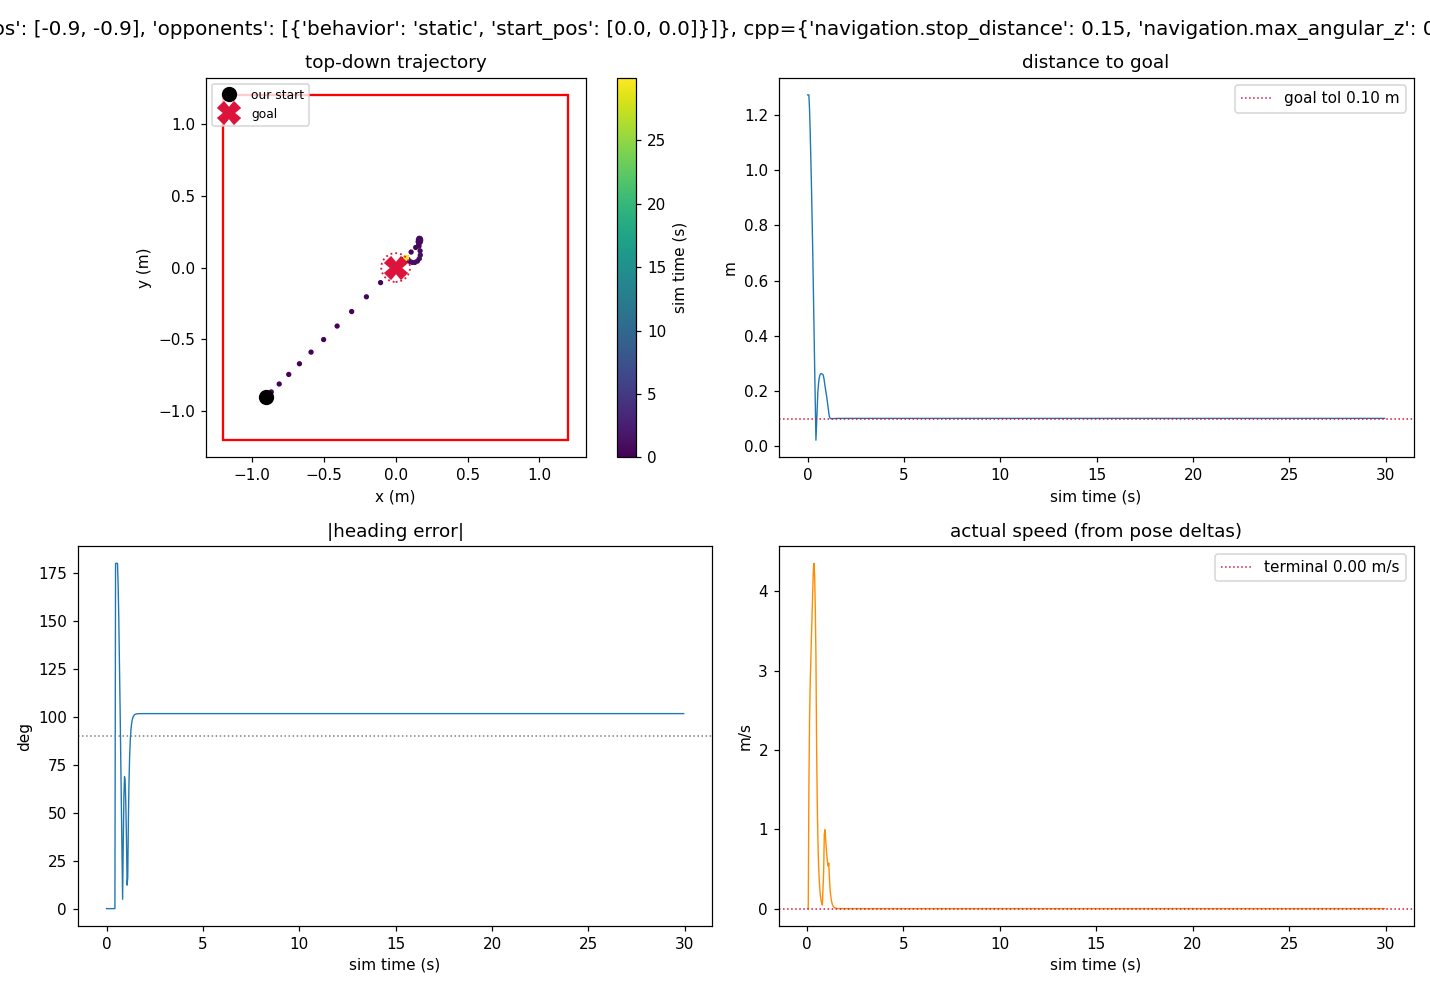
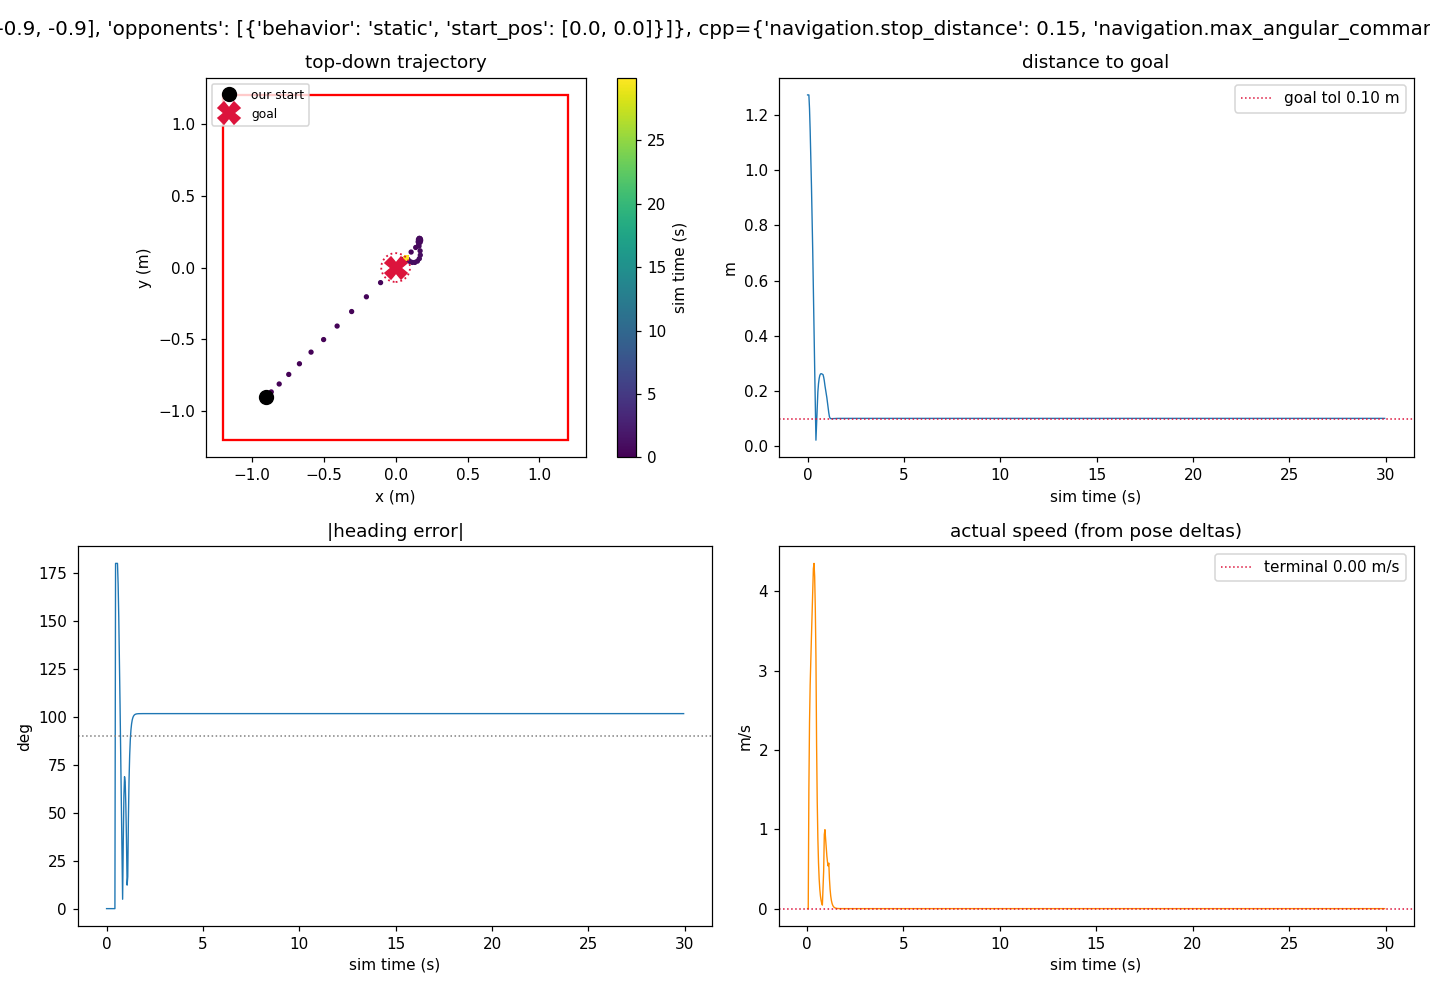
fix parameter name

Changed region(s): [[0.0, 0.0, 1.0, 0.0606]]

diff --git a/src/navigation/pursuit_navigation.cpp b/src/navigation/pursuit_navigation.cpp
@@ -26,8 +26,8 @@ PursuitNavigation::PursuitNavigation(const PursuitNavigationConfiguration &confi
       wall_reverse_distance_(config.wall_reverse_distance),
       wall_reverse_min_speed_(config.wall_reverse_min_speed),
       wall_heading_threshold_(config.wall_heading_threshold),
-      max_linear_x_(config.max_linear_x),
-      max_angular_z_(config.max_angular_z),
+      max_linear_command_(config.max_linear_command),
+      max_angular_command_(config.max_angular_command),
       angular_kp_(config.angular_kp),
       angular_kd_(config.angular_kd),
       angle_threshold_(config.angle_threshold),
@@ -130,11 +130,11 @@ VelocityCommand PursuitNavigation::compute_pursuit_command(const Pose2D &our_pos
     cmd.linear_x = compute_linear_velocity(angle_error, distance, cmd.angular_z);
     apply_wall_reverse(our_pose, field, cmd);
 
-    if (max_linear_x_ > 0.0) {
-        cmd.linear_x = std::clamp(cmd.linear_x, -max_linear_x_, max_linear_x_);
+    if (max_linear_command_ > 0.0) {
+        cmd.linear_x = std::clamp(cmd.linear_x, -max_linear_command_, max_linear_command_);
     }
-    if (max_angular_z_ > 0.0) {
-        cmd.angular_z = std::clamp(cmd.angular_z, -max_angular_z_, max_angular_z_);
+    if (max_angular_command_ > 0.0) {
+        cmd.angular_z = std::clamp(cmd.angular_z, -max_angular_command_, max_angular_command_);
     }
 
     logger_->debug("pursuit",
@@ -228,8 +228,8 @@ double PursuitNavigation::compute_linear_velocity(double angle_error, double dis
     // the legacy form but clamp it so a large angular command can never flip linear into reverse
     // thrust.
     double steer_brake;
-    if (max_angular_z_ > 0.0) {
-        steer_brake = 1.0 - 0.5 * std::min(1.0, std::abs(angular_z) / max_angular_z_);
+    if (max_angular_command_ > 0.0) {
+        steer_brake = 1.0 - 0.5 * std::min(1.0, std::abs(angular_z) / max_angular_command_);
     } else {
         steer_brake = std::max(0.0, 1.0 - 0.5 * std::abs(angular_z));
     }

diff --git a/include/navigation/config.hpp b/include/navigation/config.hpp
@@ -71,11 +71,13 @@ struct PursuitNavigationConfiguration : public NavigationConfiguration {
     /** Enable hysteresis to prevent dithering when target is behind */
     bool enable_hysteresis = true;
 
-    /** Maximum magnitude for linear_x output (m/s). 0 = no limit. */
-    double max_linear_x = 0.0;
+    /** Cap on the magnitude of the normalized forward (linear_x) command (0..1, a fraction of full
+     * drive; the plant/transmitter scales it by max_linear_speed). 0 = no limit. */
+    double max_linear_command = 0.0;
 
-    /** Maximum magnitude for angular_z output (rad/s). 0 = no limit. */
-    double max_angular_z = 0.0;
+    /** Cap on the magnitude of the normalized turn (angular_z) command (0..1, a fraction of full
+     * turn; the plant/transmitter scales it by max_angular_speed). 0 = no limit. */
+    double max_angular_command = 0.0;
 
     PursuitNavigationConfiguration() { type = "PursuitNavigation"; }
 
@@ -95,8 +97,8 @@ struct PursuitNavigationConfiguration : public NavigationConfiguration {
         PARSE_FIELD_DOUBLE(lookahead_time)
         PARSE_FIELD_DOUBLE(boundary_margin)
         PARSE_FIELD_BOOL(enable_hysteresis)
-        PARSE_FIELD_DOUBLE(max_linear_x)
-        PARSE_FIELD_DOUBLE(max_angular_z)
+        PARSE_FIELD_DOUBLE(max_linear_command)
+        PARSE_FIELD_DOUBLE(max_angular_command)
     )
     // clang-format on
 };

diff --git a/tests/navigation/test_pursuit_navigation.cpp b/tests/navigation/test_pursuit_navigation.cpp
@@ -118,8 +118,8 @@ TEST_F(PursuitNavigationTest, DerivativeTermUsesLogicalClockDt) {
     PursuitNavigationConfiguration config = make_default_config();
     config.angular_kp = 0.0;  // isolate the derivative term
     config.angular_kd = 0.1;
-    config.angle_threshold = M_PI;  // never gate on heading error
-    config.max_angular_z = 0.0;     // no output clamp
+    config.angle_threshold = M_PI;     // never gate on heading error
+    config.max_angular_command = 0.0;  // no output clamp
     config.enable_hysteresis = false;
     auto clock = std::make_shared<ManualClock>();
     PursuitNavigation nav(config, clock);

diff --git a/playground/control_stage0/fit_plant.py b/playground/control_stage0/fit_plant.py
@@ -20,7 +20,7 @@ Caveats:
    adds noise, which biases the AR coefficient `a` slightly low (tau slightly short). Treat the fit
    as a calibrated starting point, not ground truth.
  - The kinematic plant clips |command| to 1. linear_x stays within that, but angular_z can exceed
-   it on the real robot, so set max_angular_z in the nav config (or widen the plant clip) for the
+   it on the real robot, so set max_angular_command in the nav config (or widen the plant clip) for the
    fit to apply faithfully at large angular commands.
 
 Run:

diff --git a/include/navigation/pursuit_navigation.hpp b/include/navigation/pursuit_navigation.hpp
@@ -109,8 +109,8 @@ class PursuitNavigation : public NavigationInterface {
     double wall_reverse_distance_;
     double wall_reverse_min_speed_;
     double wall_heading_threshold_;
-    double max_linear_x_;
-    double max_angular_z_;
+    double max_linear_command_;
+    double max_angular_command_;
     double angular_kp_;
     double angular_kd_;
     double angle_threshold_;

diff --git a/docs/experiments/control_improvement/control_improvement_plan.md b/docs/experiments/control_improvement/control_improvement_plan.md
@@ -174,7 +174,7 @@ One scalar per scenario, plus the diagnostics behind it:
   1. **Turn hysteresis lock.** `apply_hysteresis` re-committed the turn sign on every flip, so at a ~180 deg
      overshoot (goal directly behind) it chattered left-right under latency and never completed the turn.
      Now it commits once and holds until the error drops below the release threshold.
-  2. **Angular command cap** (`max_angular_z`). At the calibrated 61.5 rad/s a committed turn rotates ~116
+  2. **Angular command cap** (`max_angular_command`). At the calibrated 61.5 rad/s a committed turn rotates ~116
      deg per 30 Hz tick and overshoots the heading into walls. Capping the command (0.25 -> ~15 rad/s
      effective) keeps the turn stable.
   3. **Coast-aware brake** (`brake_distance`, new config, default 0 = ram). Within `brake_distance` of the
@@ -185,7 +185,7 @@ One scalar per scenario, plus the diagnostics behind it:
   Result on `goto_stop.toml` (calibrated plant, 5.6 m/s / 61.5 rad/s kept): terminal position error dropped
   from 0.55-1.84 m to 0.04-0.22 m, terminal velocity to 0, wall contacts from 64-89 to 0-1. The robot now
   drives in, overshoots ~0.26 m, turns and returns, and stops on the goal, the real behavior, converged.
-  These params live in the `goto_stop` scenario overrides for now; promote `max_angular_z` and
+  These params live in the `goto_stop` scenario overrides for now; promote `max_angular_command` and
   `brake_distance` to `main.toml` for the real robot's stop missions. Feedforward/deadzone-lift and the
   motion-profile tracker are still open (Stage 3).
 - **Stage 3: precise tracker.** Implement option 2 (motion profile + feedforward + PID). Compare against
